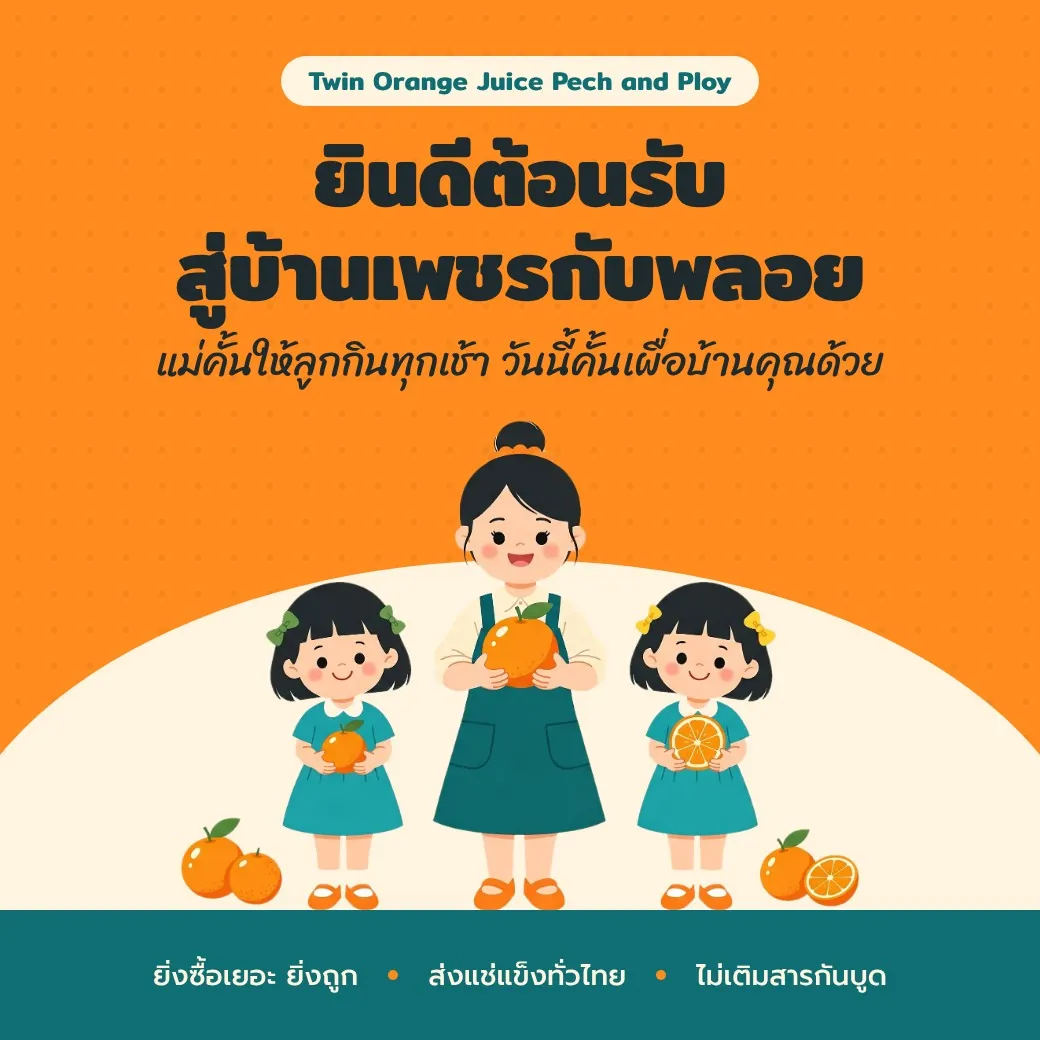
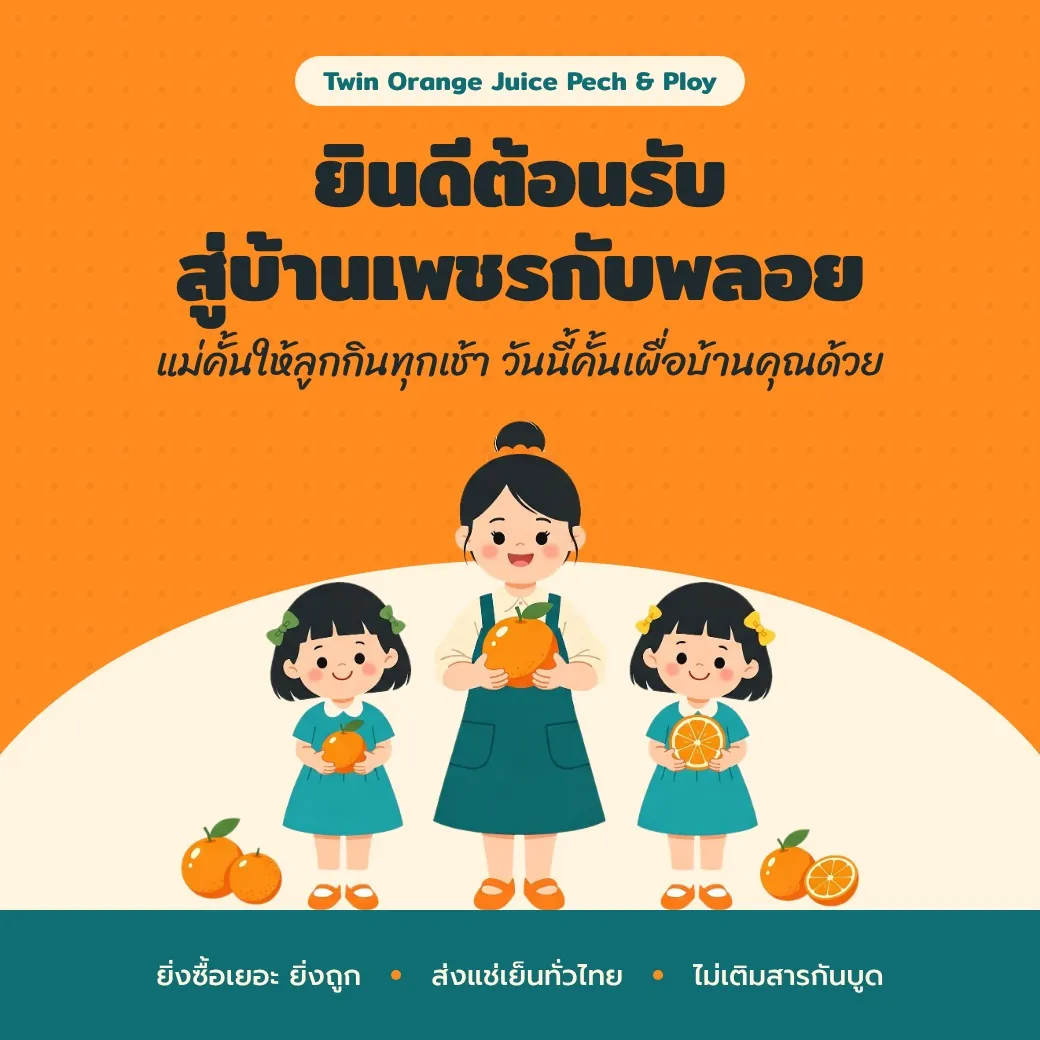
Use renamed Twin Orange Juice Pech & Ploy images, add Facebook page link
- Swap in re-exported images (name now uses &), drop old plan overview/calendar
- Add 'ดูเพจ Facebook' button and fb link in data.json fallback
- Type text: ส่งแช่เย็นทั่วไทย to match the brand

Claude-Session: https://claude.ai/code/session_019yEVvE7MAFcVNKyPCV1R5L

Changed region(s): [[0.1231, 0.9231, 0.8615, 0.9538], [0.2462, 0.0308, 0.7385, 0.1231]]

diff --git a/queue/index.html b/queue/index.html
@@ -460,7 +460,7 @@ dialog.tdlg::backdrop{background:rgba(10,12,9,.55);backdrop-filter:blur(4px)}
         <div class="work-top">
           <div class="work-info">
             <span class="tag-first">เสร็จครบ 6 ขั้น · CDR-0008</span>
-            <div class="work-id"><img src="/assets/work/twin-orange/mark.webp" alt="" width="56" height="56"><div><h3>Twin Orange Juice</h3><span>น้ำส้มคั้นสด ส่งแช่แข็งทั่วไทย</span></div></div>
+            <div class="work-id"><img src="/assets/work/twin-orange/mark.webp" alt="" width="56" height="56"><div><h3>Twin Orange Juice</h3><span>น้ำส้มคั้นสด ส่งแช่เย็นทั่วไทย</span></div></div>
             <ul class="work-list">
               <li>วางแบรนด์ใหม่ทั้งชุด: เรื่องแม่กับลูกแฝด ตัวละคร โลโก้ สี และดีไซน์ซิสเต็ม</li>
               <li>ตั้งค่า LINE OA พร้อมใช้: ริชเมนู ข้อความต้อนรับ การ์ดราคา และขั้นตอนสั่งซื้อ</li>
@@ -469,6 +469,7 @@ dialog.tdlg::backdrop{background:rgba(10,12,9,.55);backdrop-filter:blur(4px)}
             </ul>
             <div class="work-acts">
               <a class="btn btn-line2" href="https://line.me/R/ti/p/@142fcshb" target="_blank" rel="noopener"><svg viewBox="0 0 256 256" fill="none" stroke="currentColor" stroke-width="16" stroke-linecap="round" stroke-linejoin="round" aria-hidden="true"><path d="M45 200 24 232V56a8 8 0 0 1 8-8h192a8 8 0 0 1 8 8v128a8 8 0 0 1-8 8H56Z"/><line x1="88" y1="104" x2="168" y2="104"/><line x1="88" y1="136" x2="144" y2="136"/></svg>ดู LINE OA จริง @142fcshb</a>
+              <a class="btn btn-ghost" href="https://www.facebook.com/profile.php?id=61596693151320" target="_blank" rel="noopener">ดูเพจ Facebook <span class="arr">↗</span></a>
               <a class="btn btn-ghost" href="https://line.me/R/ti/p/@codera.th" target="_blank" rel="noopener">อยากได้แบบนี้ ทักทีม <span class="arr">→</span></a>
             </div>
           </div>
@@ -476,9 +477,9 @@ dialog.tdlg::backdrop{background:rgba(10,12,9,.55);backdrop-filter:blur(4px)}
         </div>
         <div class="work-grid">
           <button type="button" class="wshot" data-set="line"><span class="ph fit"><img src="/assets/work/twin-orange/richmenu.webp" alt="ริชเมนู LINE OA ของ Twin Orange Juice" width="1000" height="674" loading="lazy"></span><b>LINE OA<small>ริชเมนู ข้อความต้อนรับ การ์ดราคาและสั่งซื้อ</small></b><i class="cnt2">4</i></button>
-          <button type="button" class="wshot" data-set="page"><span class="ph fit"><img src="/assets/work/twin-orange/full/page-1.webp" alt="ภาพจำลองหน้าเพจ Facebook ของ Twin Orange Juice" width="1400" height="778" loading="lazy"></span><b>หน้าเพจ Facebook<small>หน้าเพจและปก</small></b><i class="cnt2">2</i></button>
+          <button type="button" class="wshot" data-set="page"><span class="ph fit"><img src="/assets/work/twin-orange/cover.webp" alt="ปกเพจ Facebook ของ Twin Orange Juice" width="1280" height="721" loading="lazy"></span><b>หน้าเพจ Facebook<small>ปกเพจและรูปโปรไฟล์</small></b><i class="cnt2">2</i></button>
           <button type="button" class="wshot" data-set="launch"><span class="ph"><img src="/assets/work/twin-orange/launch.webp" alt="โพสต์เปิดตัวเพจ เปิดแล้วค่ะ" width="720" height="900" loading="lazy"></span><b>โพสต์เปิดตัว<small>ชุด 5 ภาพ ปักหมุดบนเพจ</small></b><i class="cnt2">3</i></button>
-          <button type="button" class="wshot" data-set="plan"><span class="ph"><img src="/assets/work/twin-orange/plan.webp" alt="ภาพรวมฟีดเดือนแรก 20 โพสต์" width="1000" height="1271" loading="lazy"></span><b>แผนเดือนแรก<small>ฟีด 20 โพสต์ ปฏิทิน 30 วัน ตัวอย่างโพสต์</small></b><i class="cnt2">6</i></button>
+          <button type="button" class="wshot" data-set="plan"><span class="ph"><img src="/assets/work/twin-orange/plan.webp" alt="ตัวอย่างโพสต์ น้ำส้มคั้น 1 แก้ว ต้นทุนจริงเท่าไหร่" width="720" height="900" loading="lazy"></span><b>แผนเดือนแรก<small>20 โพสต์ใน 4 สัปดาห์ · ดูตัวอย่าง 4 โพสต์</small></b><i class="cnt2">4</i></button>
         </div>
       </article>
     </div>
@@ -658,10 +659,10 @@ dialog.tdlg::backdrop{background:rgba(10,12,9,.55);backdrop-filter:blur(4px)}
   (function(){
     var B='/assets/work/twin-orange/full/';
     var SETS={
-      page:{t:'หน้าเพจ Facebook',i:[['page-1','ภาพจำลองหน้าเพจหลังตั้งค่า'],['page-2','ปกเพจ ครอปพอดีทั้งคอมและมือถือ']]},
+      page:{t:'หน้าเพจ Facebook',i:[['page-1','ปกเพจ ครอปพอดีทั้งคอมและมือถือ'],['page-2','รูปโปรไฟล์']]},
       line:{t:'LINE OA @142fcshb',i:[['richmenu-1','ริชเมนู: สั่งเลย · เมนู · ยิ่งซื้อยิ่งถูก · ติดตามพัสดุ · คุยกับแม่'],['line-1','ข้อความต้อนรับเพื่อนใหม่'],['line-2','ราคาและแพ็กเกจ'],['line-5','การ์ดวิธีสั่ง']]},
       launch:{t:'โพสต์เปิดตัว',i:[['launch-1','เปิดแล้วค่ะ'],['launch-3','เมนูและราคา'],['launch-5','วิธีสั่ง']]},
-      plan:{t:'แผนคอนเทนต์เดือนแรก',i:[['plan-1','ภาพรวมฟีดเดือนแรก 20 โพสต์'],['plan-2','ปฏิทินโพสต์ 30 วัน'],['plan-3','ตัวอย่างโพสต์: อ่านฉลากเครื่องดื่มลูก'],['plan-8','ตัวอย่างโพสต์: ต้นทุนน้ำส้มของคาเฟ่'],['plan-13','ตัวอย่างโพสต์: ไอเดียจัดเบรคประชุม'],['plan-18','ตัวอย่างโพสต์: ของฝากถึงพ่อแม่']]}
+      plan:{t:'แผนคอนเทนต์เดือนแรก',i:[['plan-1','ตัวอย่างโพสต์: อ่านฉลากเครื่องดื่มลูก'],['plan-2','ตัวอย่างโพสต์: ต้นทุนน้ำส้มของคาเฟ่'],['plan-3','ตัวอย่างโพสต์: ไอเดียจัดเบรคประชุม'],['plan-4','ตัวอย่างโพสต์: ของฝากถึงพ่อแม่']]}
     };
     var d=document.getElementById('wbox'); if(!d||!d.showModal) return;
     var img=document.getElementById('wbox-img'), st=d.querySelector('.wbox-stage'), th=document.getElementById('wbox-thumbs');
